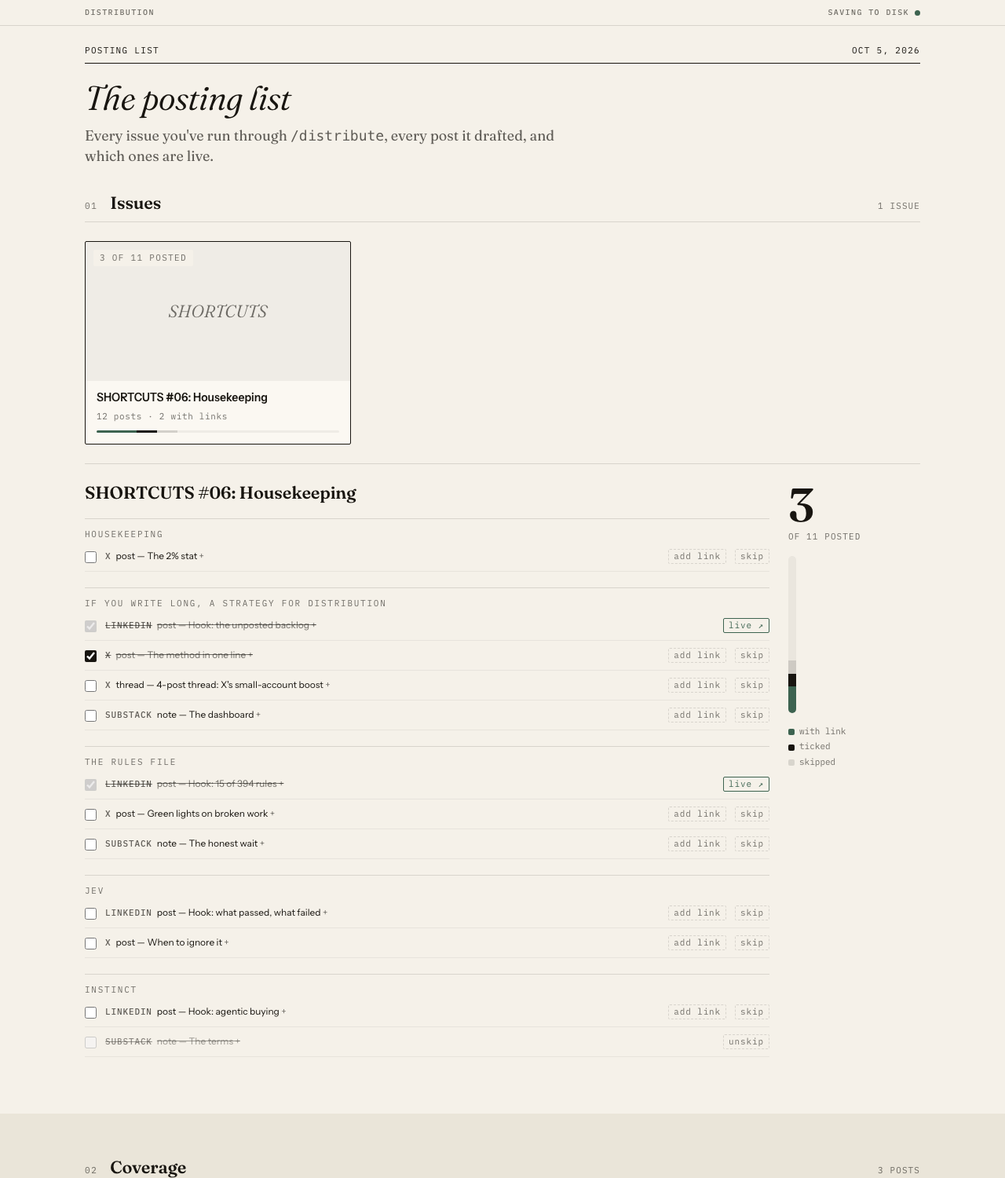
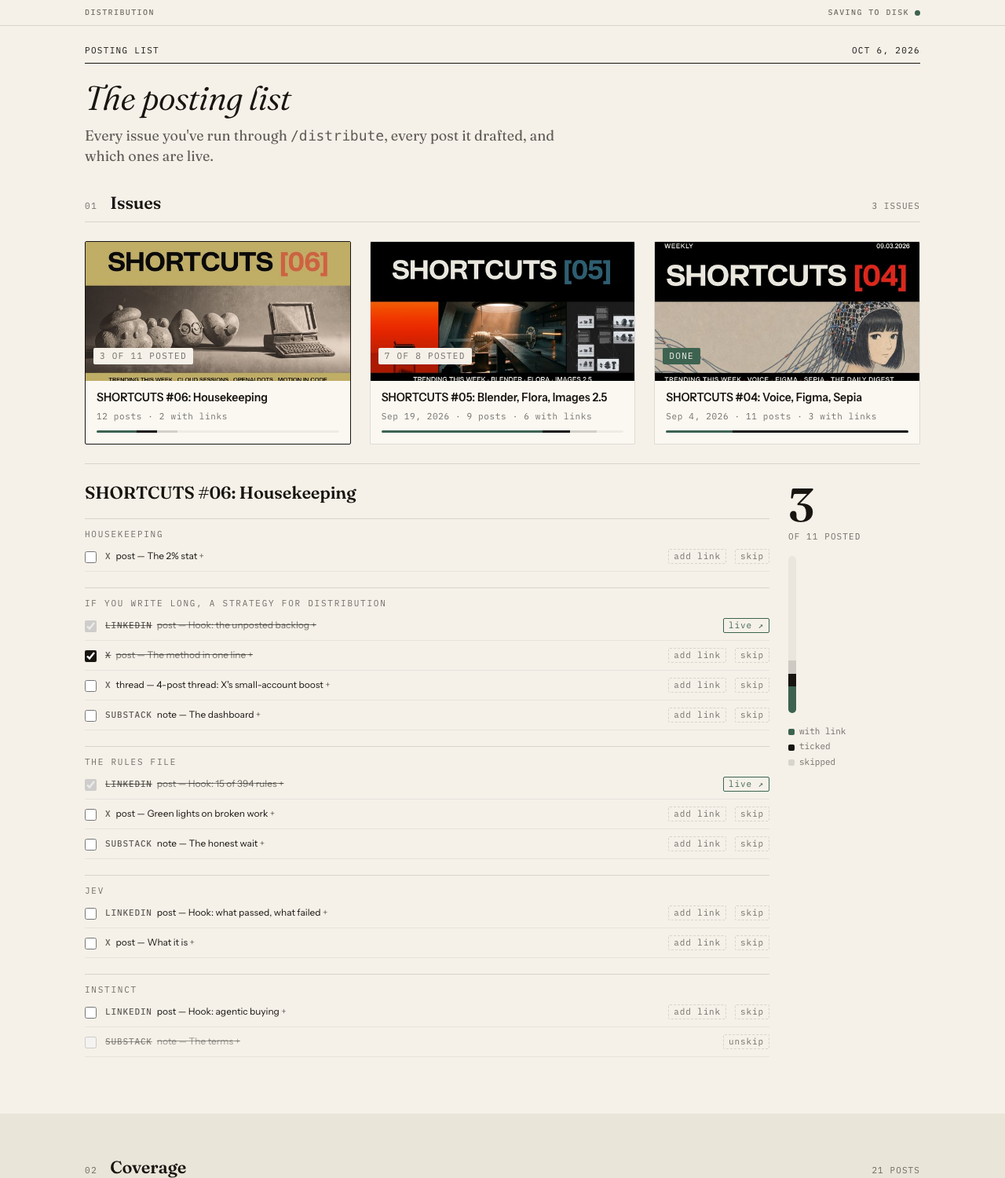
Show three sample issues with covers on the posting list

Changed region(s): [[0.0625, 0.184, 0.9375, 0.368]]

diff --git a/skills/distribute/dashboard/index.html b/skills/distribute/dashboard/index.html
@@ -94,7 +94,7 @@ section.band{background:var(--band);padding:56px 0 72px}
 .iss .thumb img{width:100%;height:100%;object-fit:cover;display:block}
 .iss .thumb .noimg{position:absolute;inset:0;display:flex;align-items:center;justify-content:center;padding:0 24px;text-align:center;
   font:italic 340 22px/1.15 var(--serif);color:var(--ink-faint)}
-.iss .tab{position:absolute;top:10px;left:10px;font:400 var(--type-label)/1 var(--mono);letter-spacing:.12em;text-transform:uppercase;
+.iss .tab{position:absolute;bottom:12%;left:10px;font:400 var(--type-label)/1 var(--mono);letter-spacing:.12em;text-transform:uppercase;
   padding:5px 8px;border-radius:2px;background:var(--paper);color:var(--ink-faint)}
 .iss.done .tab{background:var(--green);color:var(--paper)}
 .iss .body{padding:13px 14px 14px}
@@ -206,7 +206,7 @@ footer{padding:28px 0 48px;border-top:1px solid var(--rule);overflow-wrap:anywhe
 
 <div class="wrap"><footer class="note">Runs on your machine. Data: <span id="home">—</span></footer></div>
 
-<script id="sample" type="application/json">{"slug": "sample-shortcuts-06", "title": "SHORTCUTS #06: Housekeeping", "url": "", "published": "", "series": "SHORTCUTS", "cover": "", "sample": true, "sections": [{"id": "s1", "title": "Housekeeping"}, {"id": "s2", "title": "Trending this week"}, {"id": "s3", "title": "If you write long, a strategy for distribution"}, {"id": "s4", "title": "The rules file"}, {"id": "s5", "title": "Jev"}, {"id": "s6", "title": "Instinct"}, {"id": "s7", "title": "This week's trending repo"}], "items": [{"id": "s1-x", "section": "s1", "platform": "x", "format": "post", "label": "The 2% stat", "copy": "a16z published State of Markets II, 100+ charts on the first half of 2026.\n\nOne stood out: as of April, only about 2% of US households were paying for an AI subscription.\n\nIf you're reading this, you're likely in that 2%, and it's easy to forget how small that is."}, {"id": "s3-li", "section": "s3", "platform": "linkedin", "format": "post", "label": "Hook: the unposted backlog", "copy": "On October 1 the dashboard read 144 sections across my last 8 issues. 35 had been posted. 109 never had.\n\nThat's 76% of my work that only ever lived inside a newsletter.\n\nSHORTCUTS is mostly tools and methods that keep, so issues #01 through #06 are a stockpile.\n\nFull issue: [link]"}, {"id": "s3-x", "section": "s3", "platform": "x", "format": "post", "label": "The method in one line", "copy": "Write for yourself, at length. Then let a tool find the hooks, break the piece down by platform, and hand you a plan and a checklist you can see.\n\nFull issue: [link]"}, {"id": "s3-xt", "section": "s3", "platform": "x", "format": "thread", "label": "4-post thread: X's small-account boost", "copy": "1/ On September 30, X changed its ranking code to lift smaller accounts.\n\n2/ Under 50,000 followers, one eligible new post per feed load can be placed near the top of some feeds, but only in its first two hours and until it passes about 200 views.\n\n3/ Early reactions decide how far it goes from there, and X's ranking code weights a reply ten times a like.\n\n4/ So answer replies for those two hours."}, {"id": "s3-note", "section": "s3", "platform": "substack", "format": "note", "label": "The dashboard", "copy": "I'm a visual person, this changed my behavior. The dashboard shows every issue, section, and where each has been posted, with a tick and a link for logging. At a glance I can see my progress across each issue."}, {"id": "s4-li", "section": "s4", "platform": "linkedin", "format": "post", "label": "Hook: 15 of 394 rules", "copy": "Of 394 rules, about 15 reached a session at startup.\n\nI found out the hard way, most of my rules never reached the agent at all.\n\nClaude caps what a hook can load at 10,000 characters; past that, the model gets a 2,000-character preview and a file path, the rest sits unread.\n\nIf you load anything into an agent at the start (a rules file, a project brief, a style guide), keep what a hook prints under 10,000 characters and put the rest somewhere the agent can search.\n\nFull issue: [link]"}, {"id": "s4-x", "section": "s4", "platform": "x", "format": "post", "label": "Green lights on broken work", "copy": "In one week I found four monitors saying everything was fine when it wasn't.\n\nA check that only confirms a job ran is not a check. Make it confirm the job delivered."}, {"id": "s4-note", "section": "s4", "platform": "substack", "format": "note", "label": "The honest wait", "copy": "Fixing delivery took a day. By next quarter I'll know the impact."}, {"id": "s5-li", "section": "s5", "platform": "linkedin", "format": "post", "label": "Hook: what passed, what failed", "copy": "Jev is a decision model, not a writer.\n\nI tested it on my own work over the past two weeks. One kind of task passed and three failed.\n\nWhy it failed: the information it needed can't be written. Taste lives in my head. Judgment needs context from elsewhere. A sorter can't go get it.\n\nEligibility lives in the listing and runs at volume, so it worked.\n\nFull issue: [link]"}, {"id": "s5-x", "section": "s5", "platform": "x", "format": "post", "label": "What it is", "copy": "Jev is a decision model, not a writer.\n\nIt hands back the answer and a confidence number.\n\nEach decision costs a fraction of a cent and usually takes under a second."}, {"id": "s6-li", "section": "s6", "platform": "linkedin", "format": "post", "label": "Hook: agentic buying", "copy": "Instinct is a personal assistant you text or call.\n\n40% of users handed it a credit card within three weeks, Shinn said on Patrick O'Shaughnessy's podcast.\n\nWhen agents hold your card, can access your accounts and know your preferences to decide where you buy, it opens a whole new arms race for customer acquisition.\n\nIf you sell, your next customer may be an agent reading your page: price, stock, shipping and returns it can understand, or it moves on.\n\nFull issue: [link]"}, {"id": "s6-note", "section": "s6", "platform": "substack", "format": "note", "label": "The terms", "copy": "From this week's SHORTCUTS:\n\nThe terms put the risk on you. What Instinct agrees to for you is \"binding on you as if entered into directly by you,\" so a nonrefundable booking it makes counts as one you made."}]}</script>
+<script id="sample" type="application/json">[{"slug": "sample-shortcuts-06", "title": "SHORTCUTS #06: Housekeeping", "url": "", "published": "", "series": "SHORTCUTS", "cover": "covers/shortcuts-06.jpg", "sample": true, "sections": [{"id": "s1", "title": "Housekeeping"}, {"id": "s2", "title": "Trending this week"}, {"id": "s3", "title": "If you write long, a strategy for distribution"}, {"id": "s4", "title": "The rules file"}, {"id": "s5", "title": "Jev"}, {"id": "s6", "title": "Instinct"}, {"id": "s7", "title": "This week's trending repo"}], "items": [{"id": "s1-x", "section": "s1", "platform": "x", "format": "post", "label": "The 2% stat", "copy": "a16z published State of Markets II, 100+ charts on the first half of 2026.\n\nOne stood out: as of April, only about 2% of US households were paying for an AI subscription.\n\nIf you're reading this, you're likely in that 2%, and it's easy to forget how small that is."}, {"id": "s3-li", "section": "s3", "platform": "linkedin", "format": "post", "label": "Hook: the unposted backlog", "copy": "On October 1 the dashboard read 144 sections across my last 8 issues. 35 had been posted. 109 never had.\n\nThat's 76% of my work that only ever lived inside a newsletter.\n\nSHORTCUTS is mostly tools and methods that keep, so issues #01 through #06 are a stockpile.\n\nFull issue: [link]"}, {"id": "s3-x", "section": "s3", "platform": "x", "format": "post", "label": "The method in one line", "copy": "Write for yourself, at length. Then let a tool find the hooks, break the piece down by platform, and hand you a plan and a checklist you can see.\n\nFull issue: [link]"}, {"id": "s3-xt", "section": "s3", "platform": "x", "format": "thread", "label": "4-post thread: X's small-account boost", "copy": "1/ On September 30, X changed its ranking code to lift smaller accounts.\n\n2/ Under 50,000 followers, one eligible new post per feed load can be placed near the top of some feeds, but only in its first two hours and until it passes about 200 views.\n\n3/ Early reactions decide how far it goes from there, and X's ranking code weights a reply ten times a like.\n\n4/ So answer replies for those two hours."}, {"id": "s3-note", "section": "s3", "platform": "substack", "format": "note", "label": "The dashboard", "copy": "I'm a visual person, this changed my behavior. The dashboard shows every issue, section, and where each has been posted, with a tick and a link for logging. At a glance I can see my progress across each issue."}, {"id": "s4-li", "section": "s4", "platform": "linkedin", "format": "post", "label": "Hook: 15 of 394 rules", "copy": "Of 394 rules, about 15 reached a session at startup.\n\nI found out the hard way, most of my rules never reached the agent at all.\n\nClaude caps what a hook can load at 10,000 characters; past that, the model gets a 2,000-character preview and a file path, the rest sits unread.\n\nIf you load anything into an agent at the start (a rules file, a project brief, a style guide), keep what a hook prints under 10,000 characters and put the rest somewhere the agent can search.\n\nFull issue: [link]"}, {"id": "s4-x", "section": "s4", "platform": "x", "format": "post", "label": "Green lights on broken work", "copy": "In one week I found four monitors saying everything was fine when it wasn't.\n\nA check that only confirms a job ran is not a check. Make it confirm the job delivered."}, {"id": "s4-note", "section": "s4", "platform": "substack", "format": "note", "label": "The honest wait", "copy": "Fixing delivery took a day. By next quarter I'll know the impact."}, {"id": "s5-li", "section": "s5", "platform": "linkedin", "format": "post", "label": "Hook: what passed, what failed", "copy": "Jev is a decision model, not a writer.\n\nI tested it on my own work over the past two weeks. One kind of task passed and three failed.\n\nWhy it failed: the information it needed can't be written. Taste lives in my head. Judgment needs context from elsewhere. A sorter can't go get it.\n\nEligibility lives in the listing and runs at volume, so it worked.\n\nFull issue: [link]"}, {"id": "s5-x", "section": "s5", "platform": "x", "format": "post", "label": "What it is", "copy": "Jev is a decision model, not a writer.\n\nIt hands back the answer and a confidence number.\n\nEach decision costs a fraction of a cent and usually takes under a second."}, {"id": "s6-li", "section": "s6", "platform": "linkedin", "format": "post", "label": "Hook: agentic buying", "copy": "Instinct is a personal assistant you text or call.\n\n40% of users handed it a credit card within three weeks, Shinn said on Patrick O'Shaughnessy's podcast.\n\nWhen agents hold your card, can access your accounts and know your preferences to decide where you buy, it opens a whole new arms race for customer acquisition.\n\nIf you sell, your next customer may be an agent reading your page: price, stock, shipping and returns it can understand, or it moves on.\n\nFull issue: [link]"}, {"id": "s6-note", "section": "s6", "platform": "substack", "format": "note", "label": "The terms", "copy": "From this week's SHORTCUTS:\n\nThe terms put the risk on you. What Instinct agrees to for you is \"binding on you as if entered into directly by you,\" so a nonrefundable booking it makes counts as one you made."}]}, {"slug": "sample-shortcuts-05", "title": "SHORTCUTS #05: Blender, Flora, Images 2.5", "url": "", "published": "2026-09-19", "series": "SHORTCUTS", "cover": "covers/shortcuts-05.jpg", "sample": true, "sections": [{"id": "s1", "title": "Vibe coding became vibe building"}, {"id": "s2", "title": "Cost meters moved this week"}, {"id": "s3", "title": "Images 2.5, one week in"}, {"id": "s4", "title": "Flora: one canvas, all the tools"}], "items": [{"id": "s1-li", "section": "s1", "platform": "linkedin", "format": "post", "label": "Hook: dimensional building", "copy": "Astra's ability to perform long complex tasks has changed the vibe from coding to dimensional building, which is exciting because it unlocks a crazy amount of surfaces.\n\nWant to make a complex product? Create plans a contractor could work with? Build game worlds? Make 3D assets you can move a camera through?\n\nUntil last month, that kind of work was a highly specialized realm, and extremely time consuming. I'm now building 3D assets of real quality FAST.\n\nFull issue: [link]"}, {"id": "s1-x", "section": "s1", "platform": "x", "format": "post", "label": "The cost of trying", "copy": "Blender is free, so the only cost of trying this is tokens."}, {"id": "s1-note", "section": "s1", "platform": "substack", "format": "note", "label": "Push harder", "copy": "PUSH HARDER. My initial ideas tend to be very direct and simple, where I'm constantly impressed is when I throw something really abstract, difficult or complicated at the machine.\n\nTry pushing way beyond what seems reasonable, that's the realm where things get interesting."}, {"id": "s2-li", "section": "s2", "platform": "linkedin", "format": "post", "label": "Hook: check the usage rates", "copy": "I pasted that email into Code to see which of my automations were affected. My daily social scrub makes 57 searches a run and pulls about 435 posts. Today costs $0.39 a run, about $12 a month. On the new meter it is $38 to $68 a month.\n\nThat led me to figure out I could move the whole thing off Grok and run it a different way for free.\n\nLesson here: check the usage rates. Companies love to get you in with a lot of freeness, then slowly boil the water.\n\nFull issue: [link]"}, {"id": "s3-x", "section": "s3", "platform": "x", "format": "post", "label": "Control, not quality", "copy": "The leap in ChatGPT Images 2.5 is not prettier pictures, it's that the model holds a huge leap in consistency across scenes.\n\nIt is not a photographer; location plates should still go to Nano Banana Pro."}, {"id": "s4-li", "section": "s4", "platform": "linkedin", "format": "post", "label": "Hook: one canvas", "copy": "Every image in SHORTCUTS is made in Flora now, mostly as a forcing mechanism to learn its potential.\n\nFigma for design, vector and layout work; Flora for every asset that goes into it. If you are laying something out, Figma. If you are making imagery, Flora.\n\nInside Flora: Explore on a sub-cent model, iterate on one under $0.20, finish on the stronger models.\n\nFull issue: [link]"}, {"id": "s4-x", "section": "s4", "platform": "x", "format": "post", "label": "Grain is not dirt", "copy": "\"Clean this up\" strips the grain. The model treats grain as dirt. A cleanup instruction has to name what to keep."}, {"id": "s4-xt", "section": "s4", "platform": "x", "format": "thread", "label": "3-post thread: text nodes", "copy": "1/ Put the prompt in a text node, not in the image node.\n\n2/ My boards run an image with a text box beneath it; drag both into a new image node and press Run.\n\n3/ Changing the words never touches the source, and one text node can drive many images."}, {"id": "s4-note", "section": "s4", "platform": "substack", "format": "note", "label": "Storyboards move now", "copy": "Where it has already changed our work is pre-production. Storyboards are now dynamic; they move and we can iterate a LOT more for experiential renderings."}]}, {"slug": "sample-shortcuts-04", "title": "SHORTCUTS #04: Voice, Figma, Sepia", "url": "", "published": "2026-09-04", "series": "SHORTCUTS", "cover": "covers/shortcuts-04.jpg", "sample": true, "sections": [{"id": "s1", "title": "Persistence is the next frontier"}, {"id": "s2", "title": "Fable 5.1 dropped"}, {"id": "s3", "title": "Atlas: camera control in image or video"}, {"id": "s4", "title": "Talking instead of typing"}, {"id": "s5", "title": "Figma integration"}], "items": [{"id": "s1-li", "section": "s1", "platform": "linkedin", "format": "post", "label": "Hook: the third chapter", "copy": "Agents that don't stop when you close your laptop, you can now run jobs for hours or days, or be 'always on,' unlocking a plethora of new ways to leverage AI.\n\nIt's gone from prompting, to agentic, now persistence.\n\nTo summarize, Grok is furthest ahead on letting one agent run indefinitely without you. OpenAI's got the most ambitious version, they just haven't shipped it. Anthropic has shipped pieces one at a time, they haven't done a good job marketing persistence.\n\nFull issue: [link]"}, {"id": "s1-x", "section": "s1", "platform": "x", "format": "post", "label": "Forever timelines", "copy": "Regardless, start playing with what you can do by running agents across 'forever' timelines, it changes the way you think about use."}, {"id": "s2-x", "section": "s2", "platform": "x", "format": "post", "label": "Better at finishing", "copy": "Plainly: it is not significantly smarter, but it is much better at finishing. Gains are on working for hours and recovering from mistakes."}, {"id": "s2-xt", "section": "s2", "platform": "x", "format": "thread", "label": "3-post thread: two reviewers", "copy": "1/ Before execution, I currently run 2x second opinions, all from Claude code, which runs Codex and GrokBuild straight through the terminal.\n\n2/ Before I execute on any build they beat up the plan and improve it.\n\n3/ If you run two reviewers, move the first one's write-up out of the folder before you start the second. Mine read the other's report and started agreeing with it."}, {"id": "s2-note", "section": "s2", "platform": "substack", "format": "note", "label": "Scope, then the last mile", "copy": "Scope with 5.1, hand the plan to something cheap, then bring 5.1 back for the final pass. The last mile is where the recovery behaviour earns its price."}, {"id": "s3-x", "section": "s3", "platform": "x", "format": "post", "label": "Twenty-four frames", "copy": "Feed it a handful of ground-level shots and it rebuilds the space in 3D, including angles not captured. Twenty-four frames of phone video, about a second of walking, is enough to build an environment."}, {"id": "s4-li", "section": "s4", "platform": "linkedin", "format": "post", "label": "Hook: two to three times faster", "copy": "The average adult types 52 words a minute at a desk, 36 on a phone.\n\nDictation studies clock people between 90 and 160 words a minute, two to three times faster (Testing caveat, most of those measures are people reading prepared text aloud on a phone).\n\nIt is not for writing. Spoken sentences are longer, looser and more repetitive than written ones, good writing requires sitting and thinking, but ideation and capturing thoughts is where transcription excels.\n\nApple's dictation is already on your Mac, it costs nothing, and it is good enough to find out whether you like working this way.\n\nFull issue: [link]"}, {"id": "s4-xt", "section": "s4", "platform": "x", "format": "thread", "label": "3-post thread: Whisper vs Wispr", "copy": "1/ Whisper is a speech-recognition model OpenAI released for free in 2022. It is not an app. Anyone can run it on their own machine.\n\n2/ Wispr Flow is a paid app from a different company. It runs in the cloud.\n\n3/ MacWhisper is a paid Mac app that runs Whisper locally on your own machine."}, {"id": "s5-li", "section": "s5", "platform": "linkedin", "format": "post", "label": "Hook: build the templates first", "copy": "I started by building the things I needed, social assets and layouts, and it was so iterative on the smallest details that it was slower than doing it myself. The fix is to build the templates first.\n\nPoint Claude at your best previous work alongside your references and have it build templates from both, iterating for variety.\n\nEvery INTAKE issue now turns into social assets for LinkedIn, stories and Pinterest, three sets of dimensions, in minutes. Work that used to take me a few hours.\n\nFull issue: [link]"}, {"id": "s5-x", "section": "s5", "platform": "x", "format": "post", "label": "Outline first", "copy": "Big files break the pipe.\n\nAsk for the outline first, then pull only the frames you need."}, {"id": "s5-note", "section": "s5", "platform": "substack", "format": "note", "label": "Decks become cleanup", "copy": "Use it for decks. Slides is writable now, decks are a huge waste of time that now become a cleanup pass."}]}]</script>
 <script>
 'use strict';
 var PLAT = { linkedin: 'LinkedIn', x: 'X', substack: 'Substack', threads: 'Threads', bluesky: 'Bluesky' };
@@ -221,6 +221,13 @@ function clear(n) { while (n.firstChild) n.removeChild(n.firstChild); }
 function pname(p) { return PLAT[p] || p; }
 function fdate(s) { if (!s) return ''; var m = String(s).match(/^(\d{4})-(\d{2})-(\d{2})/); return m ? MON[+m[2]-1] + ' ' + (+m[3]) + ', ' + m[1] : s; }
 function plural(n, one, many) { return n + ' ' + (n === 1 ? one : (many || one + 's')); }
+/* A cover is a web URL, or covers/<file> inside the data folder (serve.py serves it). */
+function coverSrc(c) {
+  c = c || '';
+  if (/^https?:\/\//.test(c)) return c;
+  if (/^covers\/[\w.-]+\.(jpe?g|png|webp|gif)$/i.test(c)) return MODE === 'local' ? '../sample/' + c : c;
+  return '';
+}
 function key(slug, id) { return slug + '::' + id; }
 function lsGet() { try { return JSON.parse(localStorage.getItem(LS) || '[]'); } catch (e) { return []; } }
 function lsSet(v) { try { localStorage.setItem(LS, JSON.stringify(v)); } catch (e) { /* private window */ } }
@@ -267,7 +274,8 @@ function renderIssues() {
     var b = el('button', 'iss' + (finished ? ' done' : '')); b.type = 'button';
     b.setAttribute('aria-expanded', OPEN === d.slug ? 'true' : 'false');
     var th = el('div', 'thumb');
-    if (/^https?:\/\//.test(d.cover || '')) { var img = el('img'); img.src = d.cover; img.alt = ''; img.loading = 'lazy'; th.appendChild(img); }
+    var src = coverSrc(d.cover);
+    if (src) { var img = el('img'); img.src = src; img.alt = ''; img.loading = 'lazy'; th.appendChild(img); }
     else th.appendChild(el('div', 'noimg', d.series || d.title));
     th.appendChild(el('span', 'tab', finished ? 'done' : live + ' of ' + (c.total - c.skip) + ' posted'));
     b.appendChild(th);
@@ -455,7 +463,7 @@ function setMode(mode, home) {
   $('home').textContent = mode === 'local' ? 'this browser only (no server running)' : home;
   if (mode !== 'serve') {
     bn.hidden = false; clear(bn);
-    bn.appendChild(el('b', null, 'This is a sample issue. '));
+    bn.appendChild(el('b', null, ISSUES.length === 1 ? 'This is a sample issue. ' : 'These are sample issues. '));
     bn.appendChild(document.createTextNode(mode === 'demo'
       ? 'Tick, skip and paste links to see how it works; nothing is saved. '
       : 'Ticks stay in this browser. '));
@@ -470,7 +478,7 @@ function setMode(mode, home) {
 fetch('/api/state', { cache: 'no-store' }).then(function (r) { if (!r.ok) throw 0; return r.json(); }).then(function (j) {
   ISSUES = j.issues || []; LOG = j.log || []; OPEN = ISSUES.length ? ISSUES[0].slug : null; setMode(j.demo ? 'demo' : 'serve', j.home); renderAll();
 }).catch(function () {
-  ISSUES = [JSON.parse($('sample').textContent)]; LOG = lsGet(); OPEN = ISSUES[0].slug; setMode('local'); renderAll();
+  ISSUES = JSON.parse($('sample').textContent); LOG = lsGet(); OPEN = ISSUES[0].slug; setMode('local'); renderAll();
 });
 </script>
 </body>

diff --git a/skills/distribute/dashboard/serve.py b/skills/distribute/dashboard/serve.py
@@ -10,6 +10,7 @@ Standard library only. Binds to 127.0.0.1, so nothing leaves your machine.
 Your data lives in ~/distribution-tracker (set LFD_HOME to move it):
 
     issues/<slug>.json   one file per issue, written by the /distribute skill
+    covers/<file>        optional cover images, referenced as "cover": "covers/<file>"
     log.jsonl            one row per tick, skip or posted link; append-only
 
 The page reads /api/state and writes through three routes:
@@ -68,7 +69,8 @@ class Store:
                 continue
             d.setdefault("slug", p.stem)
             out.append(d)
-        out.sort(key=lambda d: d.get("published") or "", reverse=True)
+        # newest first; an issue with no published date yet is the one being worked on
+        out.sort(key=lambda d: d.get("published") or "9999", reverse=True)
         return out
 
     def log(self):
@@ -143,7 +145,7 @@ def make_handler(store):
         def send(self, code, body, ctype="application/json"):
             data = body if isinstance(body, bytes) else body.encode("utf-8")
             self.send_response(code)
-            self.send_header("Content-Type", ctype + "; charset=utf-8")
+            self.send_header("Content-Type", ctype if ctype.startswith("image/") else ctype + "; charset=utf-8")
             self.send_header("Content-Length", str(len(data)))
             self.send_header("Cache-Control", "no-store")
             self.end_headers()
@@ -170,6 +172,14 @@ def make_handler(store):
             if path == "/api/state":
                 return self.js(200, {"ok": True, "demo": store.demo, "home": str(store.root),
                                      "issues": store.issues(), "log": store.log()})
+            if path.startswith("/covers/"):
+                name = path[len("/covers/"):]
+                kind = {"jpg": "image/jpeg", "jpeg": "image/jpeg", "png": "image/png",
+                        "webp": "image/webp", "gif": "image/gif"}.get(name.rsplit(".", 1)[-1].lower())
+                f = store.root / "covers" / name
+                if kind and "/" not in name and not name.startswith(".") and f.is_file():
+                    return self.send(200, f.read_bytes(), kind)
+                return self.js(404, {"ok": False, "error": "not found"})
             if path == "/api/export.csv":
                 body = export_csv(store)
                 self.send_response(200)

diff --git a/README.md b/README.md
@@ -44,7 +44,7 @@ To open the dashboard later without distributing anything new:
 
 ## Try it first
 
-You can see the dashboard with a sample issue before you install anything:
+You can see the dashboard with three sample issues before you install anything:
 
 ```bash
 git clone https://github.com/mrowean/long-form-distribution
@@ -54,7 +54,7 @@ git clone https://github.com/mrowean/long-form-distribution
 python3 long-form-distribution/skills/distribute/dashboard/serve.py --demo
 ```
 
-Open http://127.0.0.1:8799. The sample is a real issue: SHORTCUTS #06, the one where I wrote about this tool. Every post in it is cut from that issue's own sentences. In demo mode nothing is saved. You can also open `skills/distribute/dashboard/index.html` straight from disk. It shows the same sample, and your ticks stay in that browser.
+Open http://127.0.0.1:8799. The samples are real issues: SHORTCUTS #04, #05 and #06, the one where I wrote about this tool. Every post in them is cut from that issue's own sentences. In demo mode nothing is saved. You can also open `skills/distribute/dashboard/index.html` straight from disk. It shows the same samples, and your ticks stay in that browser.
 
 To see the quote check on the same sample:
 
@@ -73,6 +73,7 @@ Everything stays on your computer. The server only listens on 127.0.0.1 and only
   issues/<slug>.json   one per issue: its sections and the drafted posts
   sources/<slug>.txt   the piece's text, which every post is checked against
   log.jsonl            every tick, skip and posted link, appended in order
+  covers/<file>        optional: cover images, if you'd rather not link to the web
   voice.md             optional: your own best posts, for matching your social voice
 ```
 

diff --git a/skills/distribute/SKILL.md b/skills/distribute/SKILL.md
@@ -90,7 +90,7 @@ Write one JSON file to `~/distribution-tracker/issues/<slug>.json` (or `$LFD_HOM
   "url": "https://…the published URL…",
   "published": "YYYY-MM-DD",
   "series": "My Newsletter",
-  "cover": "https://…cover image URL, or empty…",
+  "cover": "https://…cover image URL, covers/<file>.jpg, or empty…",
   "sections": [{"id": "s1", "title": "…"}],
   "items": [
     {"id": "s1-li", "section": "s1", "platform": "linkedin", "format": "post",
